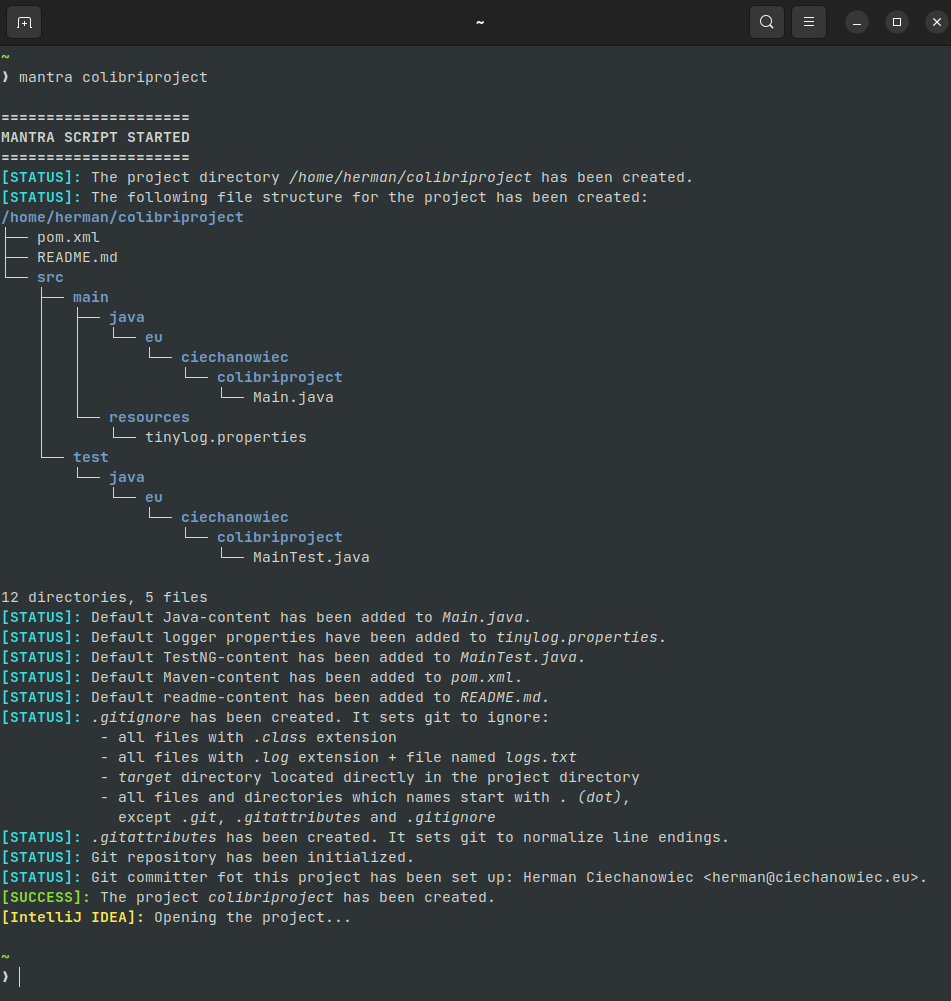
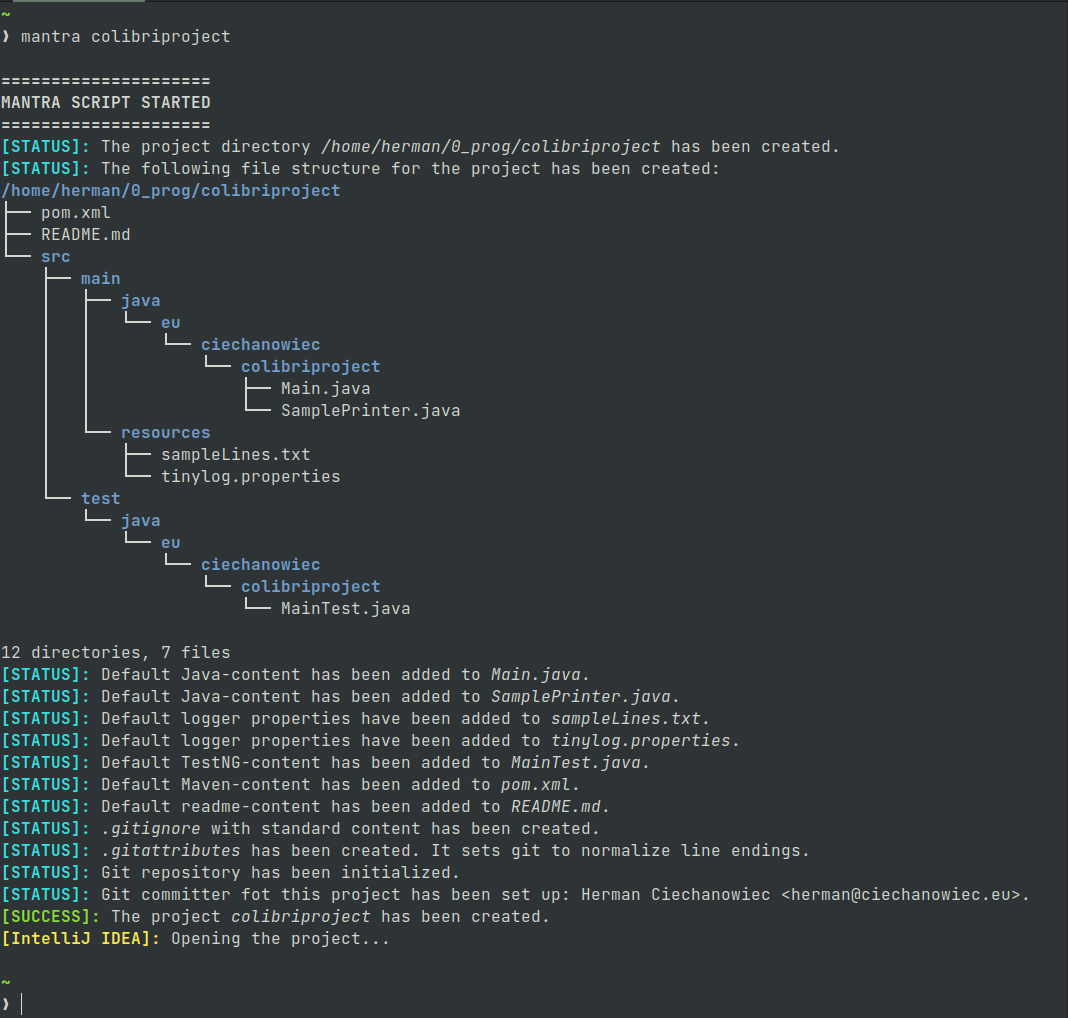
Enhance script

diff --git a/README.md b/README.md
@@ -53,8 +53,10 @@ The script is executed according to the following algorithm:
     │   │   └── eu
     │   │       └── ciechanowiec
     │   │           └── colibriproject
-    │   │               └── Main.java
+    │   │               ├── Main.java
+    │   │               └── SamplePrinter.java
     │   └── resources
+    │       ├── sampleLines.txt
     │       └── tinylog.properties
     └── test
         └── java
@@ -64,27 +66,20 @@ The script is executed according to the following algorithm:
                         └── MainTest.java
 ```     
 The above file structure implements the default file structure used by maven-archetype-quickstart and described at https://maven.apache.org/guides/getting-started/maven-in-five-minutes.html (captured on March 2022)<br/>
-5\. Add default Java-content to `Main.java` (`main` method which prints `Hello, Universe!` + logging)<br/>
-6\. Add default logger properties to `tinylog.properties` (logging to a file)<br/>
-7\. Add default TestNG-content to `MainTest.java` (_TestNG_ `assertTrue` test which always passes)<br/>
-8\. Add default Maven-content to `pom.xml`<br/>
-9\. Add default content to `README.md` (the project name and date of creation)<br/>
-10\. Add `.gitignore` file with standard content
-11\. Add `.gitattributes` file which normalizes line endings<br/>
-12\. Initialize git repository in the project directory<br/>
-13\. Set up git committer<br/>
-14\. Show finish message on successful project creation<br/>
-15\. Open the project directory in the new window with IntelliJ IDEA Community, IntelliJ IDEA Ultimate or Visual Studio Code if installed (this option works if it was turned on during configuration, by default it is turned off)
+4\. Add default content to project files
+5\. Initialize git repository in the project directory<br/>
+6\. Set up git committer<br/>
+7\. Open the project directory in the new window with IntelliJ IDEA Community, IntelliJ IDEA Ultimate or Visual Studio Code if installed (this option works if it was turned on during configuration, by default it is turned off)
 
 ## How to Use
 1. Make sure that prerequisites listed above are installed
 2. Put the script (file `.mantra.sh`) to the home folder so that its path will be `~/.mantra.sh`
-3. At the end of the script (file `.mantra.sh`), after the comment-banner `DRIVER CODE`, there are 3 blocks of code encapsulated inside the pair-comments `>> START OF A CONFIGURABLE BLOCK` and `<< END OF A CONFIGURABLE BLOCK`. Configure the code in that blocks according to the clues contained in that blocks
-4. Give the script a permission to be run (`chmod 755 ~/.mantra.sh`)
+3. At the end of the script (file `.mantra.sh`), after the comment-banner `DRIVER CODE`, there are 3 blocks of code encapsulated inside the pair-comments `>> START OF A CONFIGURABLE BLOCK` and `<< END OF A CONFIGURABLE BLOCK`. Configure the code in those blocks according to the clues contained in those blocks
+4. Give the script permission to be run (`chmod 755 ~/.mantra.sh`)
 5. Set up the following alias for the terminal (on Linux Ubuntu aliases are usually specified in the hidden file `~/.bashrc`):<br>
    `alias mantra='~/.mantra.sh'`
 6. Restart all instances of the terminal
-7. Now Mantra can be run by invoking the `mantra` command
+7. Now the script can be run by invoking the `mantra` command
 
 ## Screenshots
 <kbd><img src="!presentation/1.png"></kbd><br/>
